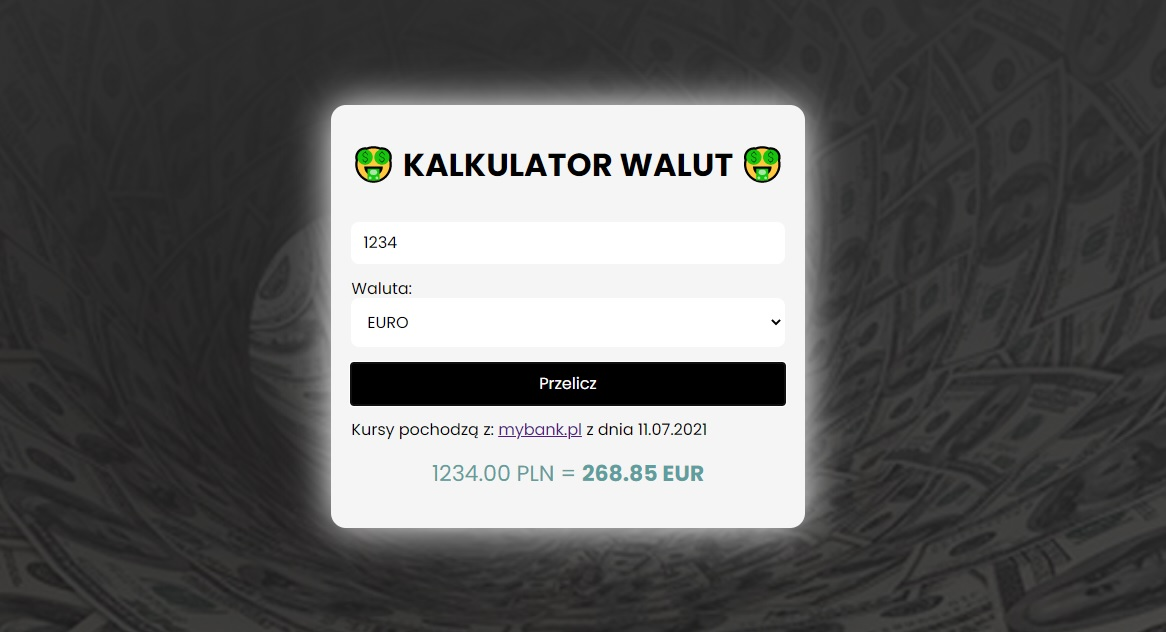
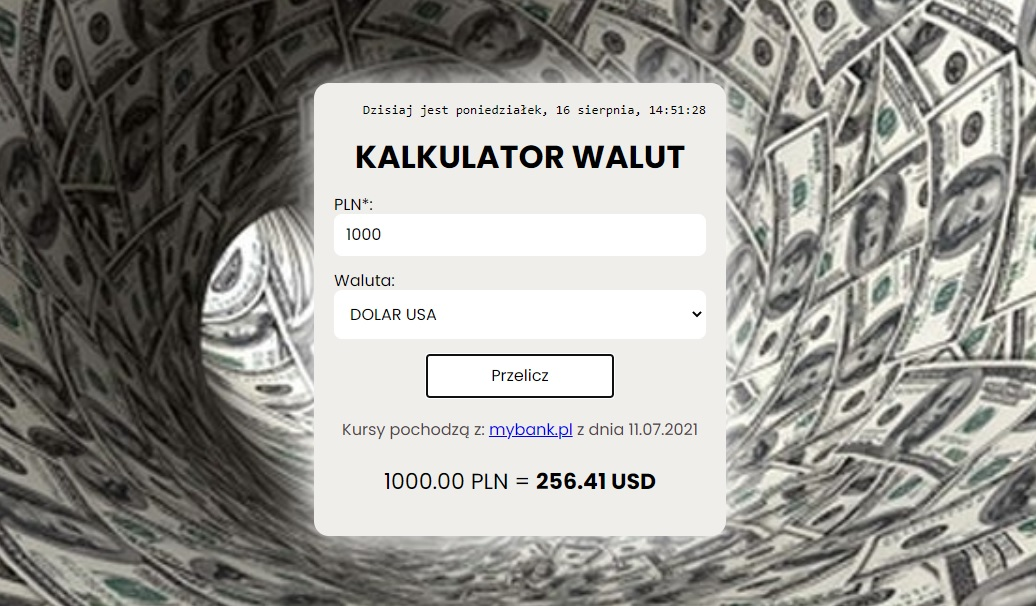
new scree.jpg and some info in readme

diff --git a/README.md b/README.md
@@ -17,12 +17,13 @@ You can convert from PLN to:
 - Swedish crown
 - Frank
 
+There is a version for the computer and for mobile devices.
+
 ### INSTRUCTION:
 
-When you want to convert PLN to e.g. Euro, you have to enter the value of your money in the PLN field, then select the Euro currency and click "Przelicz".
+When you want to convert PLN to e.g. U.S. Dollar, you have to enter the value of your money in the PLN field, then select the Dolar USA currency and click "Przelicz".
 
-The result will appear in red in the field "Wynik =>"
-If you want to re-transfer, click "Resetuj".
+The result will be displayed below.
 
 You can also see the current exchange rates by clicking on the bottom "AKTUALNE KURSY WALUT"
 
@@ -31,8 +32,9 @@ You can also see the current exchange rates by clicking on the bottom "AKTUALNE 
 ### Technologies used to create the application:
 
 - HTML
-- CSS (FLEX, GRID, Media queries)
 - JavaScript (React)
+- Styled Components
+- Custom hooks
 
 # Getting Started with Create React App
 
